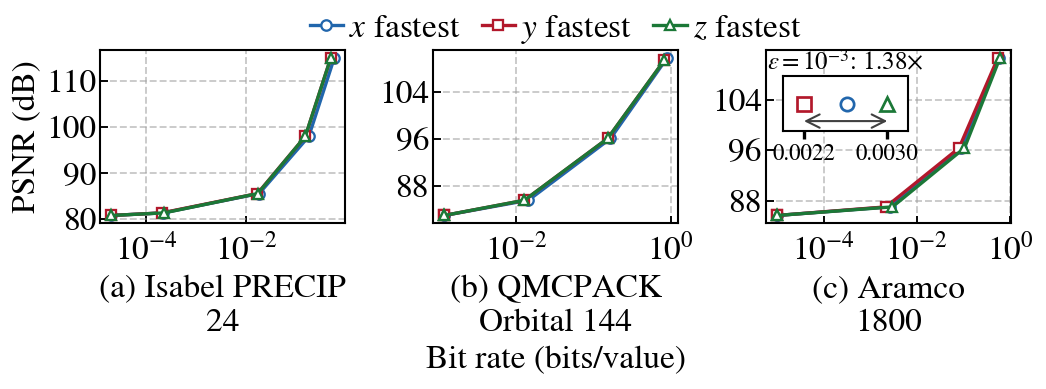
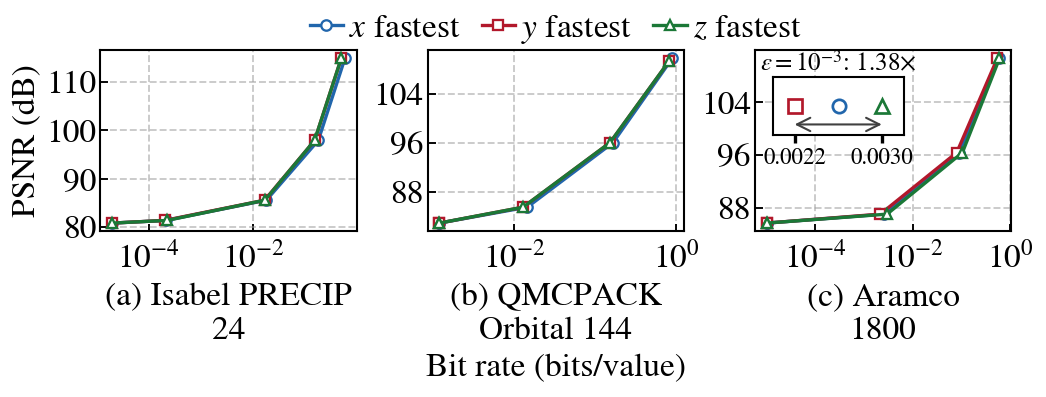
Adopt standardized paperfig panel gaps

diff --git a/plot_predictor_rd.py b/plot_predictor_rd.py
@@ -9,7 +9,7 @@ from matplotlib.lines import Line2D
 from matplotlib.ticker import LogLocator,MaxNLocator,NullLocator
 
 from paper_plot_layout import PANEL_ASPECT,add_panel_footers,place_legend_above_axes,style_plot_axis
-from paperfig import PaperFigureSpec,add_panel_captions,add_shared_xlabel,apply_paper_style,layout_panel_grid,layout_panel_row,legend_above,legend_spacing_kwargs,panel_aspect_ratios,save_paper_png_vertical_crop,style_plot_axis as style_paper_axis
+from paperfig import PANEL_GAP_WITHOUT_Y_DECORATION_PT,PANEL_GAP_WITH_YTICKS_PT,PaperFigureSpec,add_panel_captions,add_shared_xlabel,apply_paper_style,layout_panel_grid,layout_panel_row,legend_above,legend_spacing_kwargs,panel_aspect_ratios,save_paper_png_vertical_crop,style_plot_axis as style_paper_axis
 
 project_root=Path(__file__).resolve().parent
 family_styles=((0,(3,2)),(0,(1.5,1)),(0,(3,1.5,.75,1)))
@@ -82,7 +82,7 @@ def render_paperfig_row(spec,output_png):
     for axis,(key,directory) in zip(axes,datasets):
         draw_panel(axis,directory,key,spec["families"],paperfig_layout=True)
     axes[0].set_ylabel("PSNR (dB)")
-    layout_panel_row(figure,axes,panel_aspect_ratios(1,1,1),bottom_pt=52,panel_gap_pt=8,left_edge_gap_pt=3,right_edge_gap_pt=3)
+    layout_panel_row(figure,axes,panel_aspect_ratios(1,1,1),bottom_pt=52,panel_gap_pt=PANEL_GAP_WITHOUT_Y_DECORATION_PT,left_edge_gap_pt=3,right_edge_gap_pt=3)
     handles=family_legend_handles(spec["families"])
     order=(0,3,1,4,2,5)
     legend_above(axes[1],[handles[index] for index in order],[handles[index].get_label() for index in order],ncol=3,frameon=False,gap_pt=1,row_gap_pt=1,**legend_spacing_kwargs(8,column_gap_pt=5))
@@ -102,7 +102,7 @@ def render_paperfig_grid(spec,output_png):
     figure,axes=plt.subplots(2,3,figsize=paper_spec.size_in,dpi=paper_spec.dpi,sharey="row",squeeze=False)
     for axis,(key,directory) in zip(axes.flat,datasets):
         draw_panel(axis,directory,key,spec["families"],paperfig_layout=True)
-    layout_panel_grid(figure,axes,panel_aspect_ratios(1,1,1),bottom_pt=52,column_gap_pt=8,row_content_gap_pt=24,left_edge_gap_pt=14,right_edge_gap_pt=3)
+    layout_panel_grid(figure,axes,panel_aspect_ratios(1,1,1),bottom_pt=52,column_gap_pt=PANEL_GAP_WITHOUT_Y_DECORATION_PT,row_content_gap_pt=24,left_edge_gap_pt=14,right_edge_gap_pt=3)
     handles=family_legend_handles(spec["families"])
     order=(0,3,1,4,2,5)
     legend_above(axes[0,1],[handles[index] for index in order],[handles[index].get_label() for index in order],ncol=3,frameon=False,gap_pt=1,row_gap_pt=1,**legend_spacing_kwargs(8,column_gap_pt=5))
@@ -177,7 +177,7 @@ def render_coefficient_figure(output_png):
         axis.grid(True,color="#9e9e9e",linestyle="--",linewidth=.45,alpha=.55)
         axis.set_axisbelow(True)
     axes[0].set_ylabel("PSNR (dB)")
-    layout_panel_row(figure,axes,panel_aspect_ratios(1,1,1),bottom_pt=52,panel_gap_pt=8,left_edge_gap_pt=3,right_edge_gap_pt=3)
+    layout_panel_row(figure,axes,panel_aspect_ratios(1,1,1),bottom_pt=52,panel_gap_pt=PANEL_GAP_WITH_YTICKS_PT,left_edge_gap_pt=3,right_edge_gap_pt=3)
     handles=[Line2D([],[],label="Fixed quintic",**coefficient_styles["quintic"]),Line2D([],[],label="Best per error bound",color=".1",linewidth=.85,linestyle=(0,(2.5,2.5))),Line2D([],[],label="Other coefficients",**coefficient_styles["other"])]
     legend_above(axes[1],handles=handles,ncol=3,frameon=False,gap_pt=1,row_gap_pt=1,**legend_spacing_kwargs(8,column_gap_pt=4))
     captions=add_panel_captions(figure,axes,["(a) Aramco\n1800","(b) SCALE-LETKF\nPRES","(c) QMCPACK\nOrbital 144"],gap_pt=2,source="ticks")

diff --git a/plot_qb_order_rd.py b/plot_qb_order_rd.py
@@ -7,7 +7,7 @@ import matplotlib.pyplot as plt
 from matplotlib.lines import Line2D
 from matplotlib.ticker import LogLocator,MaxNLocator,NullLocator
 
-from paperfig import PaperFigureSpec,add_panel_captions,add_shared_xlabel,apply_paper_style,layout_panel_row,legend_above,legend_spacing_kwargs,panel_aspect_ratios,save_paper_png_vertical_crop,style_plot_axis
+from paperfig import PANEL_GAP_WITH_YTICKS_PT,PaperFigureSpec,add_panel_captions,add_shared_xlabel,apply_paper_style,layout_panel_row,legend_above,legend_spacing_kwargs,panel_aspect_ratios,save_paper_png_vertical_crop,style_plot_axis
 
 project_root=Path(__file__).resolve().parent
 datasets=(("precip24","Isabel PRECIP\n24"),("qmcpack144","QMCPACK\nOrbital 144"),("aramco1800","Aramco\n1800"))
@@ -79,7 +79,7 @@ def render(rows,output_png):
                 spine.set_linewidth(.5)
             inset.annotate("",xy=(worst["BR"],center-.1),xytext=(best["BR"],center-.1),arrowprops={"arrowstyle":"<->","color":".25","linewidth":.5,"shrinkA":0,"shrinkB":0})
     axes[0].set_ylabel("PSNR (dB)")
-    layout_panel_row(figure,axes,panel_aspect_ratios(1,1,1),bottom_pt=52,panel_gap_pt=8,left_edge_gap_pt=3,right_edge_gap_pt=3)
+    layout_panel_row(figure,axes,panel_aspect_ratios(1,1,1),bottom_pt=52,panel_gap_pt=PANEL_GAP_WITH_YTICKS_PT,left_edge_gap_pt=3,right_edge_gap_pt=3)
     handles=[Line2D([],[],label=rf"${axis}$ fastest",linewidth=.8,marker=markers[order],markersize=2.5,markerfacecolor="white",markeredgewidth=.55,**styles[order]) for axis,order in zip(("x","y","z"),orders)]
     legend_above(axes[1],handles=handles,ncol=3,frameon=False,gap_pt=1,row_gap_pt=1,**legend_spacing_kwargs(8,column_gap_pt=5))
     captions=add_panel_captions(figure,axes,[f"({chr(97+index)}) {label}" for index,(_,label) in enumerate(datasets)],gap_pt=2,source="ticks")
